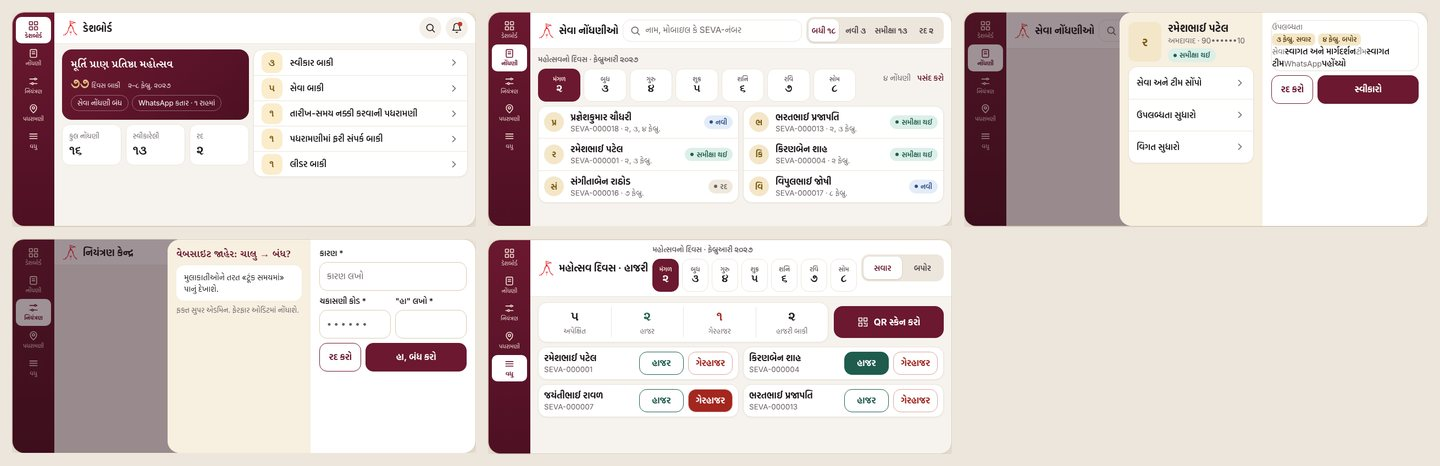
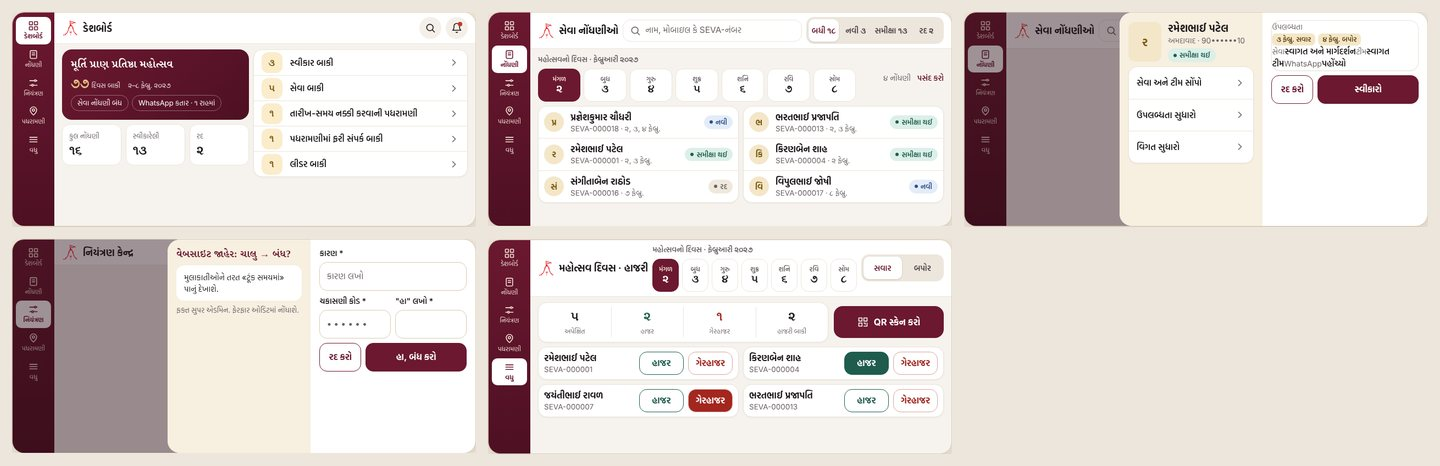
Admin phone design, revision 3.1: audited all 101 screens, type and scrolling fixed
- tab/filter strips scroll sideways instead of being clipped
- every on-screen text raised to at least 12px (badges and the printed ID card excepted)
- re-checked: no overflow, no sideways scroll, targets >= 40px, no script errors

Claude-Session: https://claude.ai/code/session_01WQZjPuNXkcZbb4JwxDPtDs

diff --git a/admin-panel/phone/phone-design.html b/admin-panel/phone/phone-design.html
@@ -317,6 +317,22 @@ body{font-size:16px}
 .at .bt span{height:42px;min-width:62px;display:grid;place-items:center;font-size:14px;font-weight:700;color:var(--mut);border-radius:0;border:0}
 .at .bt .y.on{background:var(--grbg);color:var(--gr)}.at .bt .x.on{background:var(--rzbg);color:var(--rz)}
 .at .bt .y{border-right:1.5px solid var(--line)}
+/* v5.1 — nothing on a screen below 12px (the printed ID card and the sheet's own labels excepted) */
+.bar .t small{font-size:12px}
+.nav div{font-size:12px}
+.nav em{font:600 11px/17px "Hind Vadodara";min-width:17px;height:17px;border-radius:9px}
+.days span small{font-size:12px}
+.rr .s small{font-size:12px}
+.tile small{font-size:12px}
+.sum small{font-size:12px}
+.cal .h{font-size:12px}
+.newtag{font-size:12px}
+.lv{font-size:11.5px}
+.rail div{font-size:11.5px}
+.cnt small{font-size:12.5px}
+/* tab and filter strips really scroll sideways; they are not just cut off */
+.tabs{overflow-x:auto;overflow-y:hidden;scrollbar-width:none}
+.tabs::-webkit-scrollbar{display:none}
 .lockb{display:inline-flex;align-items:center;gap:5px;opacity:.55}
 .lockb svg{width:15px;height:15px;fill:none;stroke:currentColor;stroke-width:2}
[1 lines of base64/hex data omitted]

diff --git a/admin-panel/phone/generate.py b/admin-panel/phone/generate.py
@@ -215,6 +215,22 @@ css+='''
 .at .bt span{height:42px;min-width:62px;display:grid;place-items:center;font-size:14px;font-weight:700;color:var(--mut);border-radius:0;border:0}
 .at .bt .y.on{background:var(--grbg);color:var(--gr)}.at .bt .x.on{background:var(--rzbg);color:var(--rz)}
 .at .bt .y{border-right:1.5px solid var(--line)}
+/* v5.1 — nothing on a screen below 12px (the printed ID card and the sheet's own labels excepted) */
+.bar .t small{font-size:12px}
+.nav div{font-size:12px}
+.nav em{font:600 11px/17px "Hind Vadodara";min-width:17px;height:17px;border-radius:9px}
+.days span small{font-size:12px}
+.rr .s small{font-size:12px}
+.tile small{font-size:12px}
+.sum small{font-size:12px}
+.cal .h{font-size:12px}
+.newtag{font-size:12px}
+.lv{font-size:11.5px}
+.rail div{font-size:11.5px}
+.cnt small{font-size:12.5px}
+/* tab and filter strips really scroll sideways; they are not just cut off */
+.tabs{overflow-x:auto;overflow-y:hidden;scrollbar-width:none}
+.tabs::-webkit-scrollbar{display:none}
 .lockb{display:inline-flex;align-items:center;gap:5px;opacity:.55}
 .lockb svg{width:15px;height:15px;fill:none;stroke:currentColor;stroke-width:2}
 '''

diff --git a/admin-panel/phone/README.md b/admin-panel/phone/README.md
@@ -43,3 +43,17 @@ Checked: all 101 screens render with no overflow and no console errors (Playwrig
 
 Still open for the owner: new wording in the new strips and folds, and whether an admin may edit a
 registration's date — both need approval before they go into the panel.
+
+### Revision 3.1 — full audit pass (18 Nov 2026)
+Every one of the 101 screens was measured in the browser, not just looked at:
+- vertical overflow: none; sideways page scroll: none
+- tab and filter strips now really scroll sideways (`overflow-x:auto`); before they were cut off by
+  `overflow:hidden`, which contradicted rule 2
+- all text on a screen is at least 12 px. Raised: the group label in the top bar, the bottom-bar labels,
+  the weekday in the day strip, list second lines, quick-tile labels, summary lines, the calendar
+  weekday header and the "નવું" tag. Exceptions on purpose: the red count badge (11 px), level badges
+  (11.5 px) and the printed ID card, which is a 54x86 mm card and not a screen.
+- touch targets: every tappable row, button, chip, tab and nav item is 40 px or more. The switch graphic
+  is 30 px but sits inside a 70 px row that is tappable as a whole; status pills are not tappable.
+- no script errors. The file loads its Gujarati fonts from Google Fonts, so it needs internet to look
+  right; nothing else is fetched.
